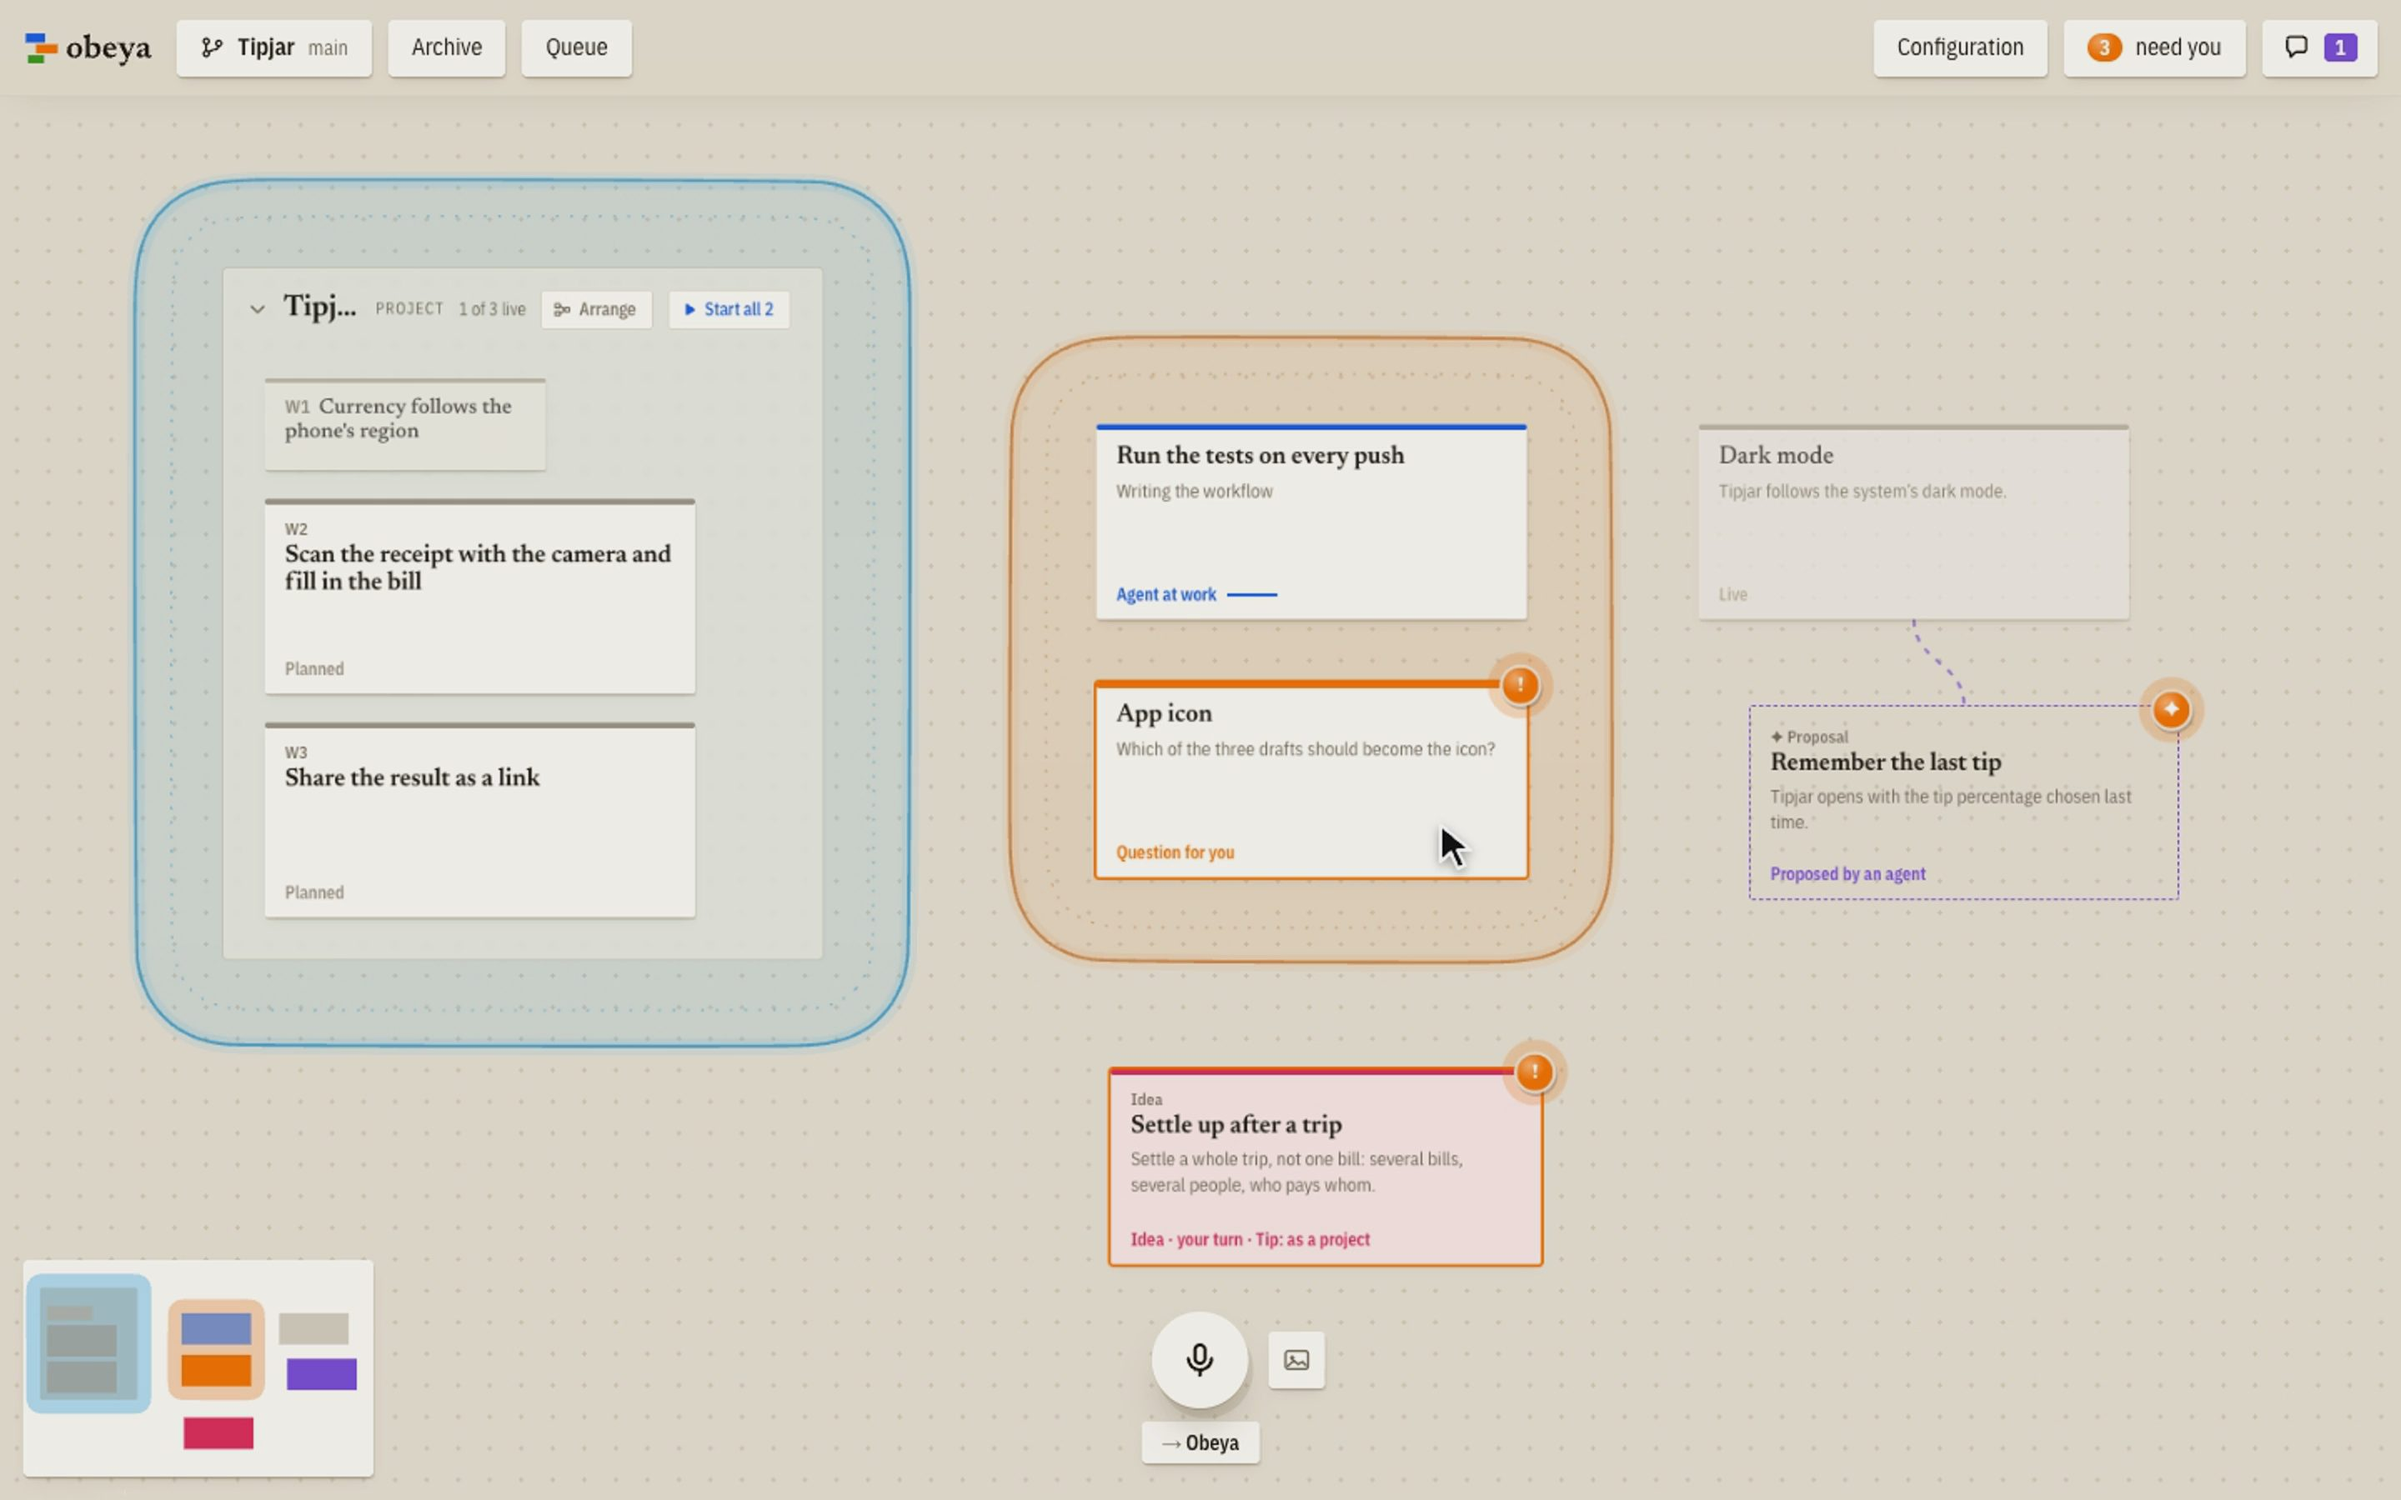
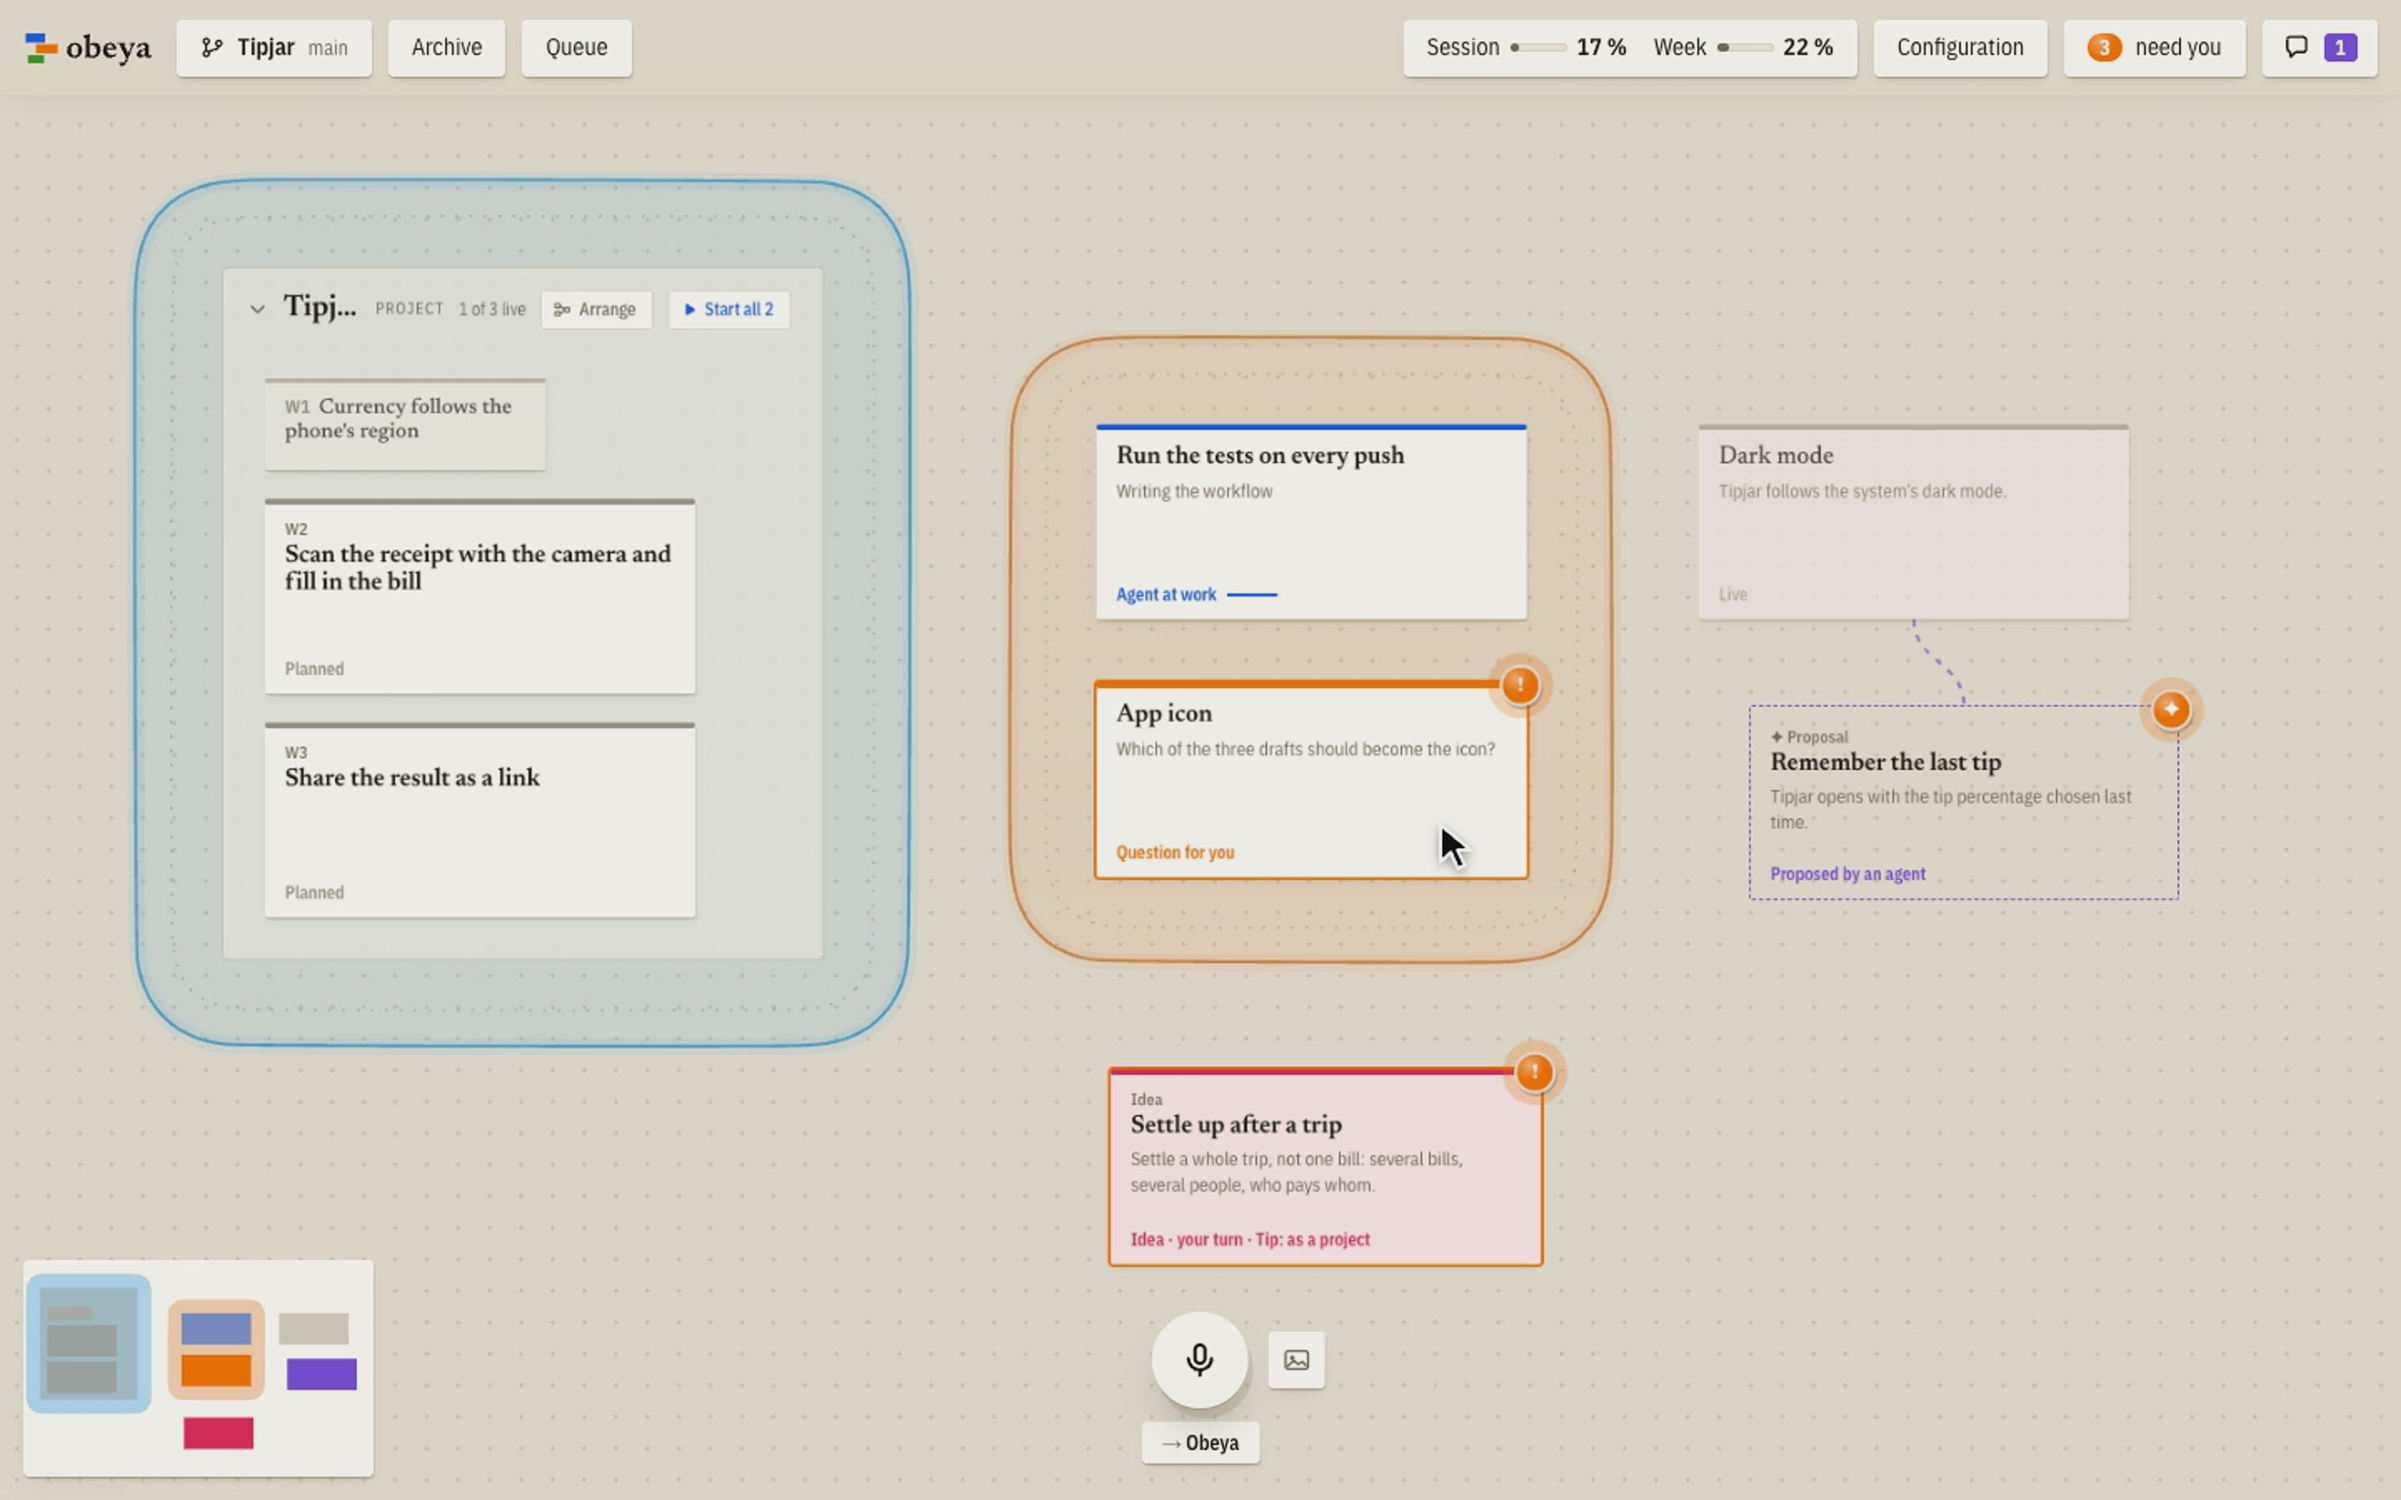
Obeya 0.8.0
The version goes to 0.8.0, with the site's screenshots and the hero video's poster taken again
from it. The README names pull requests on GitHub Enterprise, the review of a pull request someone
else opened, the personal demo site, building an idea in a new repository, and the usage limits in
the bar.

site-shots.ts took the phone view after the voice shot, whose held Space sent what the fake
microphone heard to App icon's agent as an answer: the card no longer waited, and the phone listed
it under Running instead of For you. The phone shots now come first.

Demo-Video: https://demos.obeya.si/release-erstellen-076fe3/

Changed region(s): [[0.5625, 0.0, 0.7812, 0.0622]]

diff --git a/scripts/site-shots.ts b/scripts/site-shots.ts
@@ -107,8 +107,9 @@ try {
   await page.goto(staged.url);
   await page.locator('.card').first().waitFor();
   await page.waitForTimeout(1000);
-  await shots(page, staged.cards as Record<string, string>);
+  // the phone first: the voice shot's held Space sends what the fake microphone hears to App icon's agent, and the card no longer waits
   await phoneShots(staged.url);
+  await shots(page, staged.cards as Record<string, string>);
 } finally {
   await browser.close();
   if (!process.argv.includes('--keep')) execFileSync('bun', [join(ROOT, 'scripts', 'scratch-obeya.ts'), '--stop', String(PORT)]);

diff --git a/README.md b/README.md
@@ -30,20 +30,26 @@ decision and hands over with a demo: a narrated screen recording of the change, 
 at when the result is a layout or variants side by side. You approve it or say what to change, also
 about one moment of the video: what you type or say while it stands there goes to the agent with
 that frame and the narration's sentence. Approved work lands on `main` or goes out as a pull
-request on GitHub, Forgejo or Gitea (Codeberg, say) that Obeya carries to the merge, or up to it
-where your team merges itself; beside the branch the card shows how large the change is, and a
+request on GitHub (GitHub Enterprise too), Forgejo or Gitea (Codeberg, say) that Obeya carries to
+the merge, or up to it where your team merges itself; beside the branch the card shows how large the change is, and a
 click shows the diff. A report or another file the agent made for you shows beside its
 conversation. "Share" puts a demo on a page of its own on your repository's demo
-site, for colleagues to watch; the site can also take every approved demo by itself.
+site, for colleagues to watch; the site can also take every approved demo by itself. A repository
+without a site of its own shares on a personal one of yours, which Obeya sets up on GitHub Pages
+or Cloudflare with one button. A pull request someone else opened gets a card on your word:
+its agent reads the diff before anything of it runs, reviews it, records a demo before and after,
+and your approval merges it.
 
 You talk to Obeya itself, spoken or typed: it takes your instructions, queues cards whose changes
 would collide, cuts large ones into parallel packages and learns your preferences. An idea is
 thought through on its card with an agent of its own, which keeps a brief of variants and open
-questions and can have throwaway prototypes built; deciding builds it or plans it as a project,
+questions and can have throwaway prototypes built; deciding builds it, in your repository or in a
+new one Obeya creates for it, or plans it as a project,
 or splits off the part that is settled as a task while the rest stays open. Larger work is planned
 in plan docs, in the repository or in a folder of your own beside it, which show as projects with
 a card per workstream and a project agent to ask about the plan. Each product you build gets a canvas of its own, over one repository or
-several, and one Obeya runs them all.
+several, and one Obeya runs them all. The bar shows how much of your Claude plan's session and week
+is used.
 
 ![An Obeya canvas: a project with its workstreams, one at work and one in the queue; beside it a demo and a question waiting for you, a task at work, an approved and a live one, and an idea](site/img/canvas.png)
 
